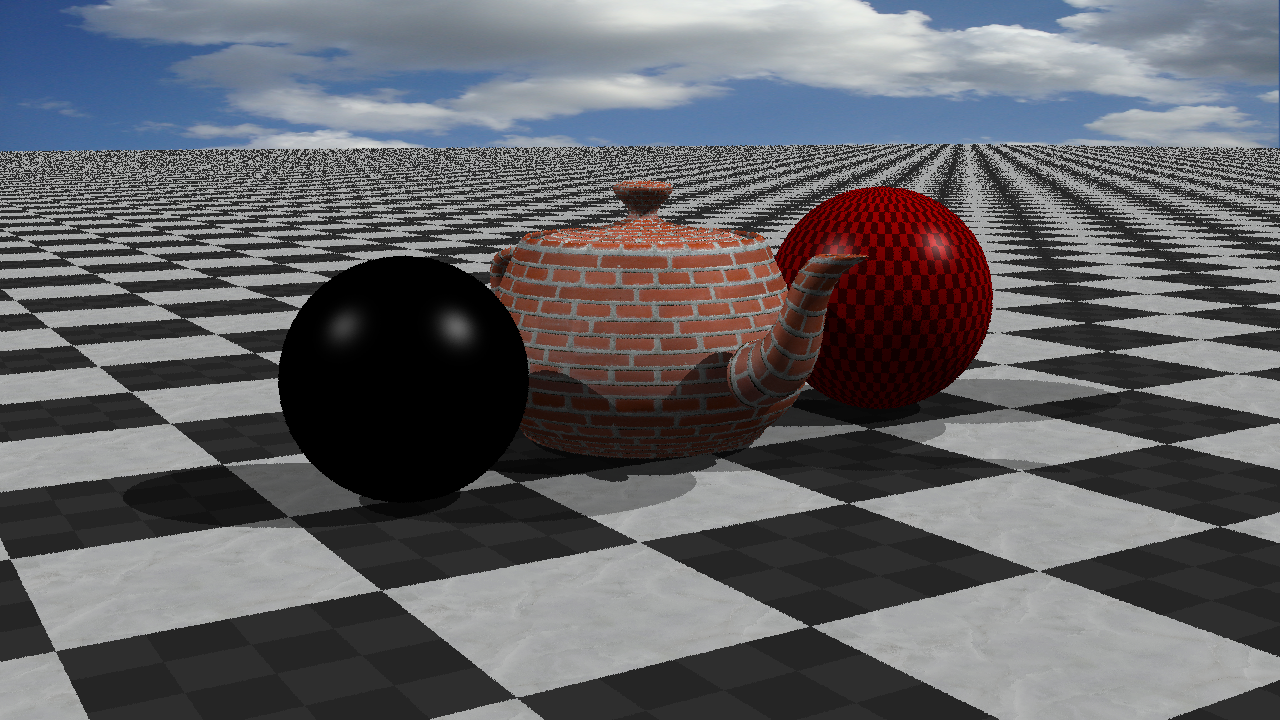
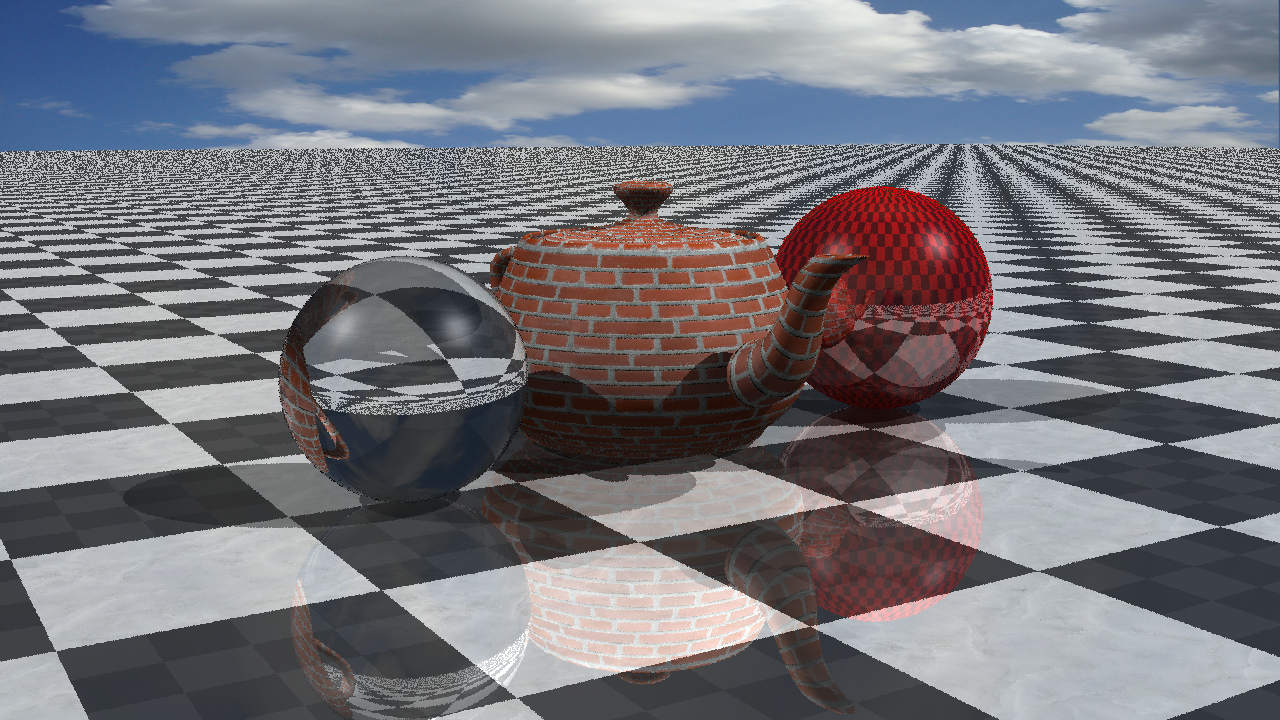
Fixed issue where rays couldn't bounce

diff --git a/src/main.cpp b/src/main.cpp
@@ -123,6 +123,7 @@ Color ShadeInfo::TraceSecondaryRay( Ray const &ray, float &dist ) const
     return hInfo.node->GetMaterial()->Shade(newShadeInfo);
 }
 
+// Random multi-sampling
 void threadRenderTiles()
 {
     while (true)
@@ -135,7 +136,7 @@ void threadRenderTiles()
         int tileWidth{ std::min(tileThreads::tileSize, renderer.GetCamera().imgWidth - imageX) };
         int tileHeight{ std::min(tileThreads::tileSize, renderer.GetCamera().imgHeight - imageY) };
 
-        constexpr size_t samplesPerPixel{ 1 };
+        constexpr size_t samplesPerPixel{ 1000 };
         constexpr float averagingFraction{ 1.0f / static_cast<float>(samplesPerPixel) };
         for (int j{ imageY }; j < imageY + tileHeight; ++j)
         {
@@ -171,6 +172,57 @@ void threadRenderTiles()
         }
     }
 }
+
+//void threadRenderTiles()
+//{
+//    while (true)
+//    {
+//        int tileIndex{ tileThreads::tileCounter++ };
+//        if (tileIndex >= tileThreads::totalNumTiles) break;
+//
+//        int imageX{ (tileIndex % tileThreads::numTilesX) * tileThreads::tileSize };
+//        int imageY{ (tileIndex / tileThreads::numTilesX) * tileThreads::tileSize };
+//        int tileWidth{ std::min(tileThreads::tileSize, renderer.GetCamera().imgWidth - imageX) };
+//        int tileHeight{ std::min(tileThreads::tileSize, renderer.GetCamera().imgHeight - imageY) };
+//
+//        constexpr size_t samplesPerPixel{ 4 };
+//        constexpr float averagingFraction{ 1.0f / static_cast<float>(samplesPerPixel) };
+//        for (int j{ imageY }; j < imageY + tileHeight; ++j)
+//        {
+//            for (int i{ imageX }; i < imageX + tileWidth; ++i)
+//            {
+//                Color finalPixelColor{ 0.0f };
+//                for (size_t sampleNum{ 0 }; sampleNum < samplesPerPixel; ++sampleNum)
+//                {
+//                    const float randomOffsetX{ tileThreads::rng.RandomFloat() - 0.5f };
+//                    const float randomOffsetY{ tileThreads::rng.RandomFloat() - 0.5f };
+//                    //const float spaceX{ -tileThreads::imagePlaneHalfWidth + tileThreads::pixelSize * (static_cast<float>(i) + tileThreads::rng.Halton(sampleNum, 3)) };
+//                    //const float spaceY{ tileThreads::imagePlaneHalfHeight - tileThreads::pixelSize * (static_cast<float>(j) + tileThreads::rng.Halton(sampleNum, 3)) };
+//                    const float spaceX{ -tileThreads::imagePlaneHalfWidth + tileThreads::pixelSize * (static_cast<float>(i) + 0.5f + randomOffsetX) };
+//                    const float spaceY{ tileThreads::imagePlaneHalfHeight - tileThreads::pixelSize * (static_cast<float>(j) + 0.5f + randomOffsetY) };
+//                    const Ray worldRay{ renderer.GetCamera().pos, (tileThreads::cameraToWorld * Vec3f{ spaceX, spaceY, -1.0f }) };
+//
+//                    HitInfo hitInfo{};
+//                    ShadeInfo sInfo{ renderer.GetScene().lights, renderer.GetScene().environment };
+//                    if (renderer.TraceRay(worldRay, hitInfo))
+//                    {
+//                        sInfo.SetHit(worldRay, hitInfo);
+//                        finalPixelColor += hitInfo.node->GetMaterial()->Shade(sInfo) * averagingFraction;
+//                    }
+//                    else
+//                    {
+//                        const float u{ static_cast<float>(i) / static_cast<float>(renderer.GetCamera().imgWidth - 1) };
+//                        const float v{ static_cast<float>(j) / static_cast<float>(renderer.GetCamera().imgHeight - 1) };
+//                        finalPixelColor += renderer.GetScene().background.Eval( Vec3f{ u, v, 1.0f } ) * averagingFraction;
+//                    }
+//
+//                    //renderer.GetRenderImage().GetZBuffer()[j * renderer.GetCamera().imgWidth + i] = hitInfo.z;
+//                }
+//                renderer.GetRenderImage().GetPixels()[j * renderer.GetCamera().imgWidth + i] = Color24{ finalPixelColor };
+//            }
+//        }
+//    }
+//}
 
 
 int main()

diff --git a/src/renderer.h b/src/renderer.h
@@ -128,7 +128,7 @@ public:
 
 	virtual Color EvalEnvironment( Vec3f const &dir ) const { return env.EvalEnvironment(dir); };	// returns the environment color
 
-	virtual bool CanBounce() const { return false; }	// returns if an additional bounce is permitted
+	virtual bool CanBounce() const { return bounceS < 5; }	// returns if an additional bounce is permitted
 	virtual int  CurrentSpecularBounce() const { return bounceS; }	// returns the current specular bounce (zero for primary rays)
 	virtual int  CurrentPixelSample   () const { return pSample; }	// returns the current pixel sample ID
 
